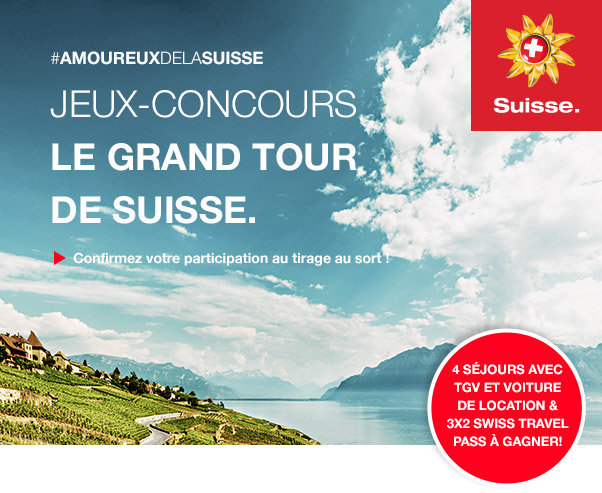
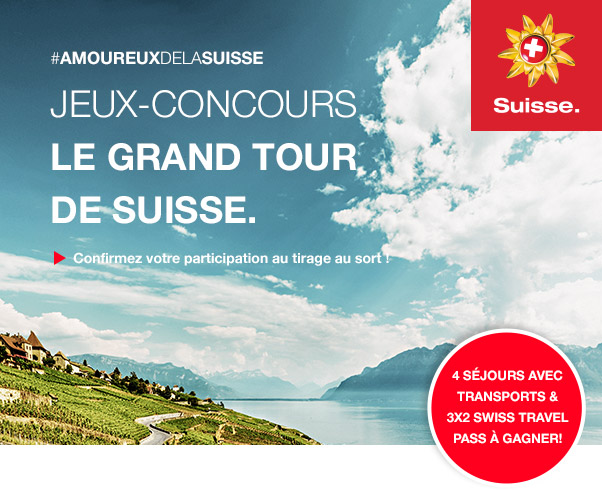
new text update and emailer top image

diff --git a/public/css/layout/_landing.scss b/public/css/layout/_landing.scss
@@ -43,7 +43,7 @@
     width: 190px;
     height: 190px;
     font-size: 16px;
-    line-height: 20px;
+    line-height: 26px;
     text-align: center;
     font-family: $sansserifBold;
     border-radius: 50%;

diff --git a/public/css/main.css b/public/css/main.css
@@ -1275,7 +1275,7 @@ footer {
   width: 190px;
   height: 190px;
   font-size: 16px;
-  line-height: 20px;
+  line-height: 26px;
   text-align: center;
   font-family: "helveticaNeueBd";
   border-radius: 50%;
